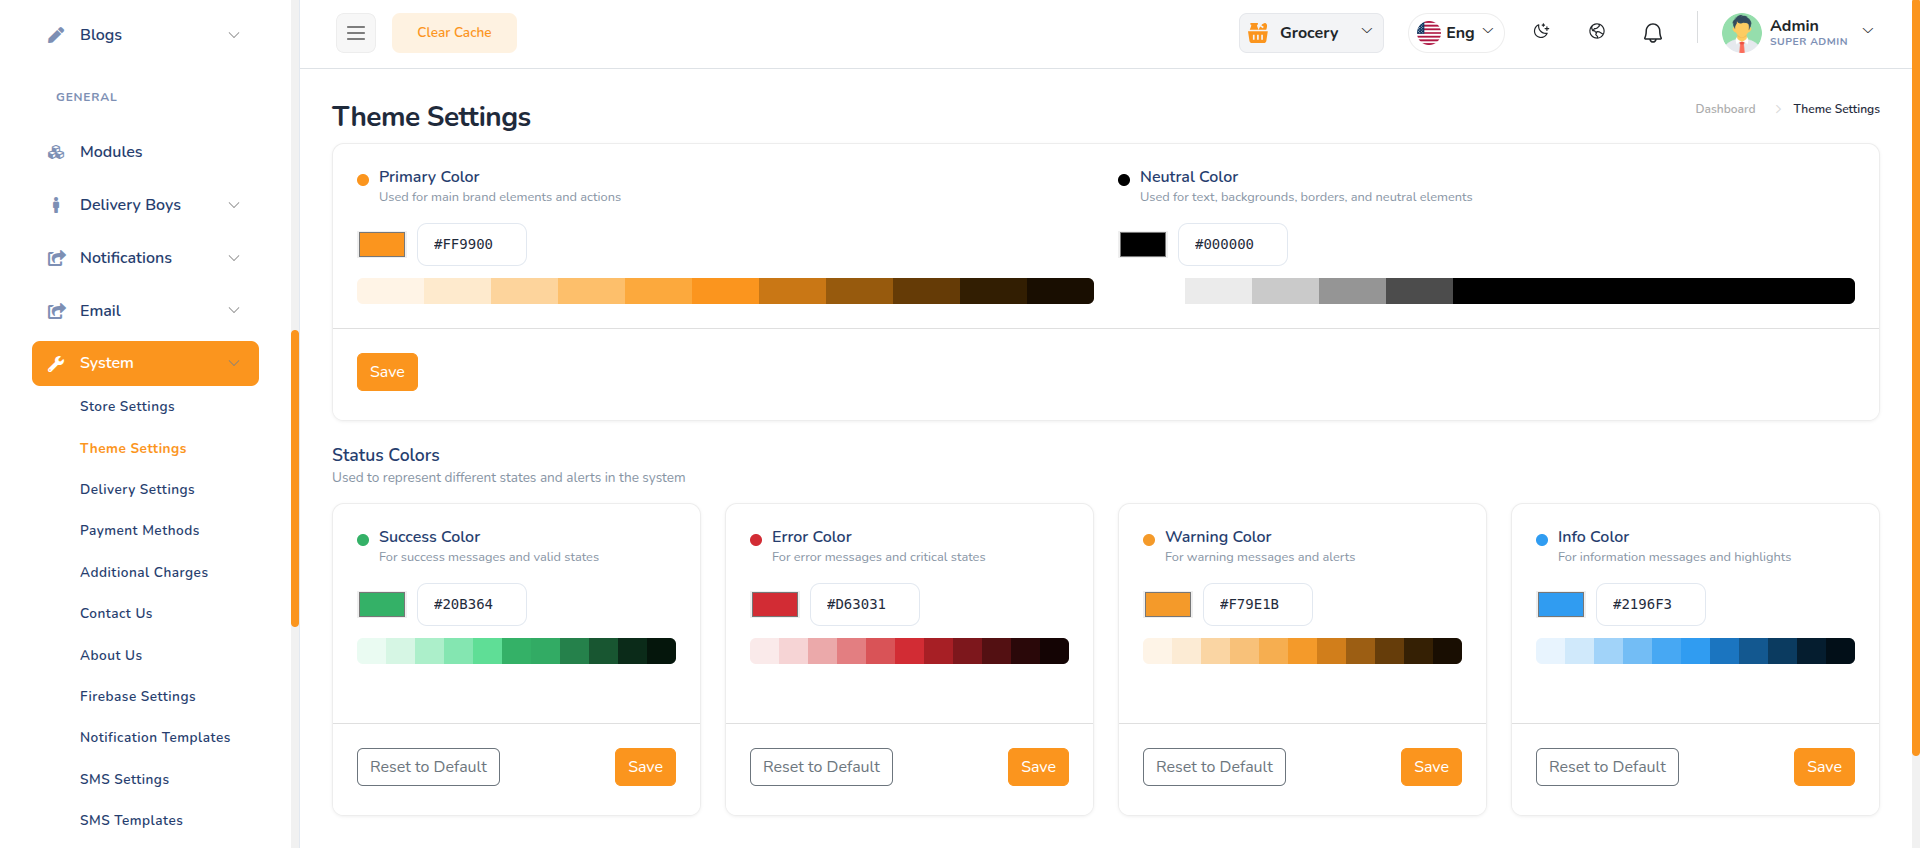
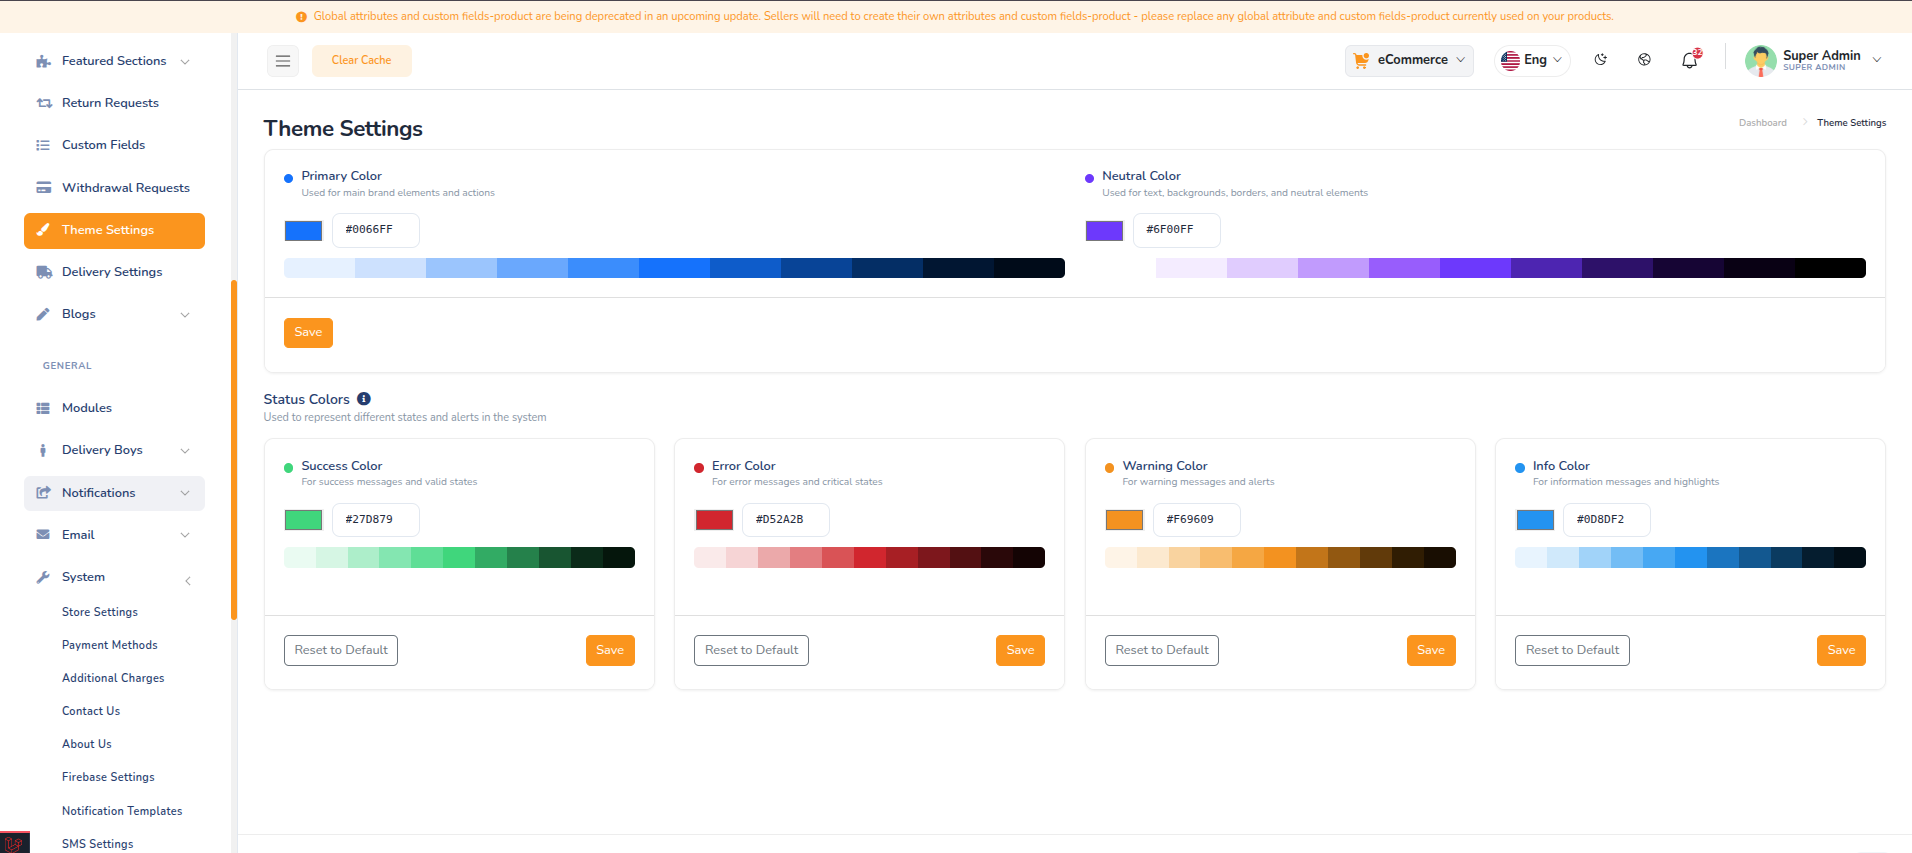
docs(admin-panel): update payment gateway, cart reminder, theme and subscription screenshots

diff --git a/docs/admin-panel/theme-settings.md b/docs/admin-panel/theme-settings.md
@@ -4,7 +4,7 @@ sidebar_position: 10
 
 # Theme Settings
 
-Customize the platform's color scheme from here. Navigate to **System → Theme Settings**.
+Customize the platform's color scheme from here. Navigate to **Modules → Theme Settings**.
 
 These colors apply to the **website** and the **customer app** — both download the palette from the server, so changing your brand color here does not require rebuilding or resubmitting the app.
 
@@ -12,22 +12,27 @@ The admin panel's own interface and the partner app are not affected by these se
 
 ![Theme Settings](/img/admin-panel/theme-settings.png)
 
-## Primary Color
+## Primary & Neutral Color (per module)
+
+Primary and Neutral colors are stored **per module**. Use the module switcher in the header to pick the module you want to theme (Grocery, Pharmacy, Ecommerce, Food Delivery, etc.) before editing — each module keeps its own brand palette.
+
+### Primary Color
 
 - Used for main brand elements and actions (buttons, links, highlights)
 - Enter hex code or pick from color swatch
-- Preview shade range shown below picker
+- A live preview generates an 11-shade palette (50 → 950) used for buttons, links, and brand accents
 
-## Neutral Color
+### Neutral Color
 
 - Used for text, backgrounds, borders, and neutral elements
 - Enter hex code or pick from color swatch
+- A very light pick (e.g. white) is blocked with a warning — it would make borders and dividers invisible against the UI
 
-Click **Save** under Primary/Neutral Color section to apply changes.
+Click **Save** to persist both colors and their generated palettes for the currently selected module. Changes apply immediately, no reload needed.
 
-## Status Colors
+## Status Colors (default module only)
 
-Used to represent different states and alerts across system.
+The Success/Error/Warning/Info section only appears when the currently selected module is the system's **default module** (set in **Settings → Modules**). Status colors are global/shared across all modules, so they're editable only from the default module to avoid conflicting values.
 
 1. **Success Color** — success messages and valid states
 2. **Error Color** — error messages and critical states
@@ -39,17 +44,19 @@ Each status color has its own hex input, shade preview, **Reset to Default**, an
 ## Configuration Steps
 
 1. Log in to admin panel
-2. Navigate to **System → Theme Settings**
-3. Set Primary/Neutral Color hex codes, click **Save**
-4. Set Status Colors (Success, Error, Warning, Info) as needed, click **Save** per section
-5. Use **Reset to Default** to revert any status color to its original value
+2. Navigate to **Theme Settings**
+3. Select the module to theme from the header module switcher
+4. Set Primary/Neutral Color hex codes, click **Save**
+5. Switch to the default module to set Status Colors (Success, Error, Warning, Info) as needed, click **Save** per section
+6. Use **Reset to Default** to revert any status color to its original value
 
 ## Important Notes
 
 - Changes apply to the website and customer app after save
 - The admin panel interface and the partner app keep their own colors and are not changed here
 - The customer app picks up the new palette on next launch; it caches the last palette so it still renders correctly offline
-- You enter one Primary and one Neutral color; the system generates the full shade range from each
+- Primary and Neutral colors are per-module; Status colors are global and shown/edited only on the default module, but apply across all modules
+- You enter one Primary and one Neutral color per module; the system generates the full shade range from each
 - Light and dark mode share the same palette and are not configured separately
 - Use accessible color contrast for readability
 - Reset to Default restores original color for that section only

diff --git a/docs/admin-panel/payment-gateway.md b/docs/admin-panel/payment-gateway.md
@@ -4,35 +4,27 @@ sidebar_position: 12
 
 # Payment Gateway
 
-Set here payment gateways list.
+here payment gateways list.
 
-![Payment Gateways](/img/admin-panel/payment_gateways.png)
+- Cash on Delivery (COD)
+- PayPal
+- PayUmoney
+- Razorpay
+- Paystack
+- Flutterwave
+- Stripe
+- SSLCommerz (ssl_commerce)
+- Direct Bank Transfer (manual, not a gateway API)
+- Midtrans
+- PhonePe (phonepay)
+- Cashfree
+- PayTabs
+- DPO
 
-Set here payment method details.
+here payment method details.
 
-![Payment Method](/img/admin-panel/payment_method.png)
+![Payment Gateways & Methods Settings](/img/admin-panel/payment_gateways_methods_settings.png)
 
-Here you can set Stripe and Razorpay details.
-
-![Stripe Setting](/img/admin-panel/stripe_setting.png)
-
-![Razorpay Setting](/img/admin-panel/razorpay_setting.png)
-
-Here you can enable Paystack.
-
-![Paystack Setting](/img/admin-panel/paystack_setting.png)
-
-Here you can enable your Paytm account.
-
-![Paytm Setting](/img/admin-panel/paytm_setting.png)
-
-Here you can enable your PayPal account.
-
-![PayPal Setting](/img/admin-panel/paypal_setting.png)
-
-Here you can set your Direct Bank Transfer information.
-
-![Direct Bank Transfer](/img/admin-panel/direct_bank_transfer.png)
 
 Verity of options available for payments, just follow the below steps to configure the payment gateways for eMarket.
 

diff --git a/docs/admin-panel/cart-reminder.md b/docs/admin-panel/cart-reminder.md
@@ -6,7 +6,7 @@ sidebar_position: 13
 
 Set here cart reminder notification time.
 
-![Cart Reminder](/img/admin-panel/cart_reminder.png)
+![Cart Reminder](/img/admin-panel/cart_setting.png)
 
 ## Cart Reminder Configuration
 
